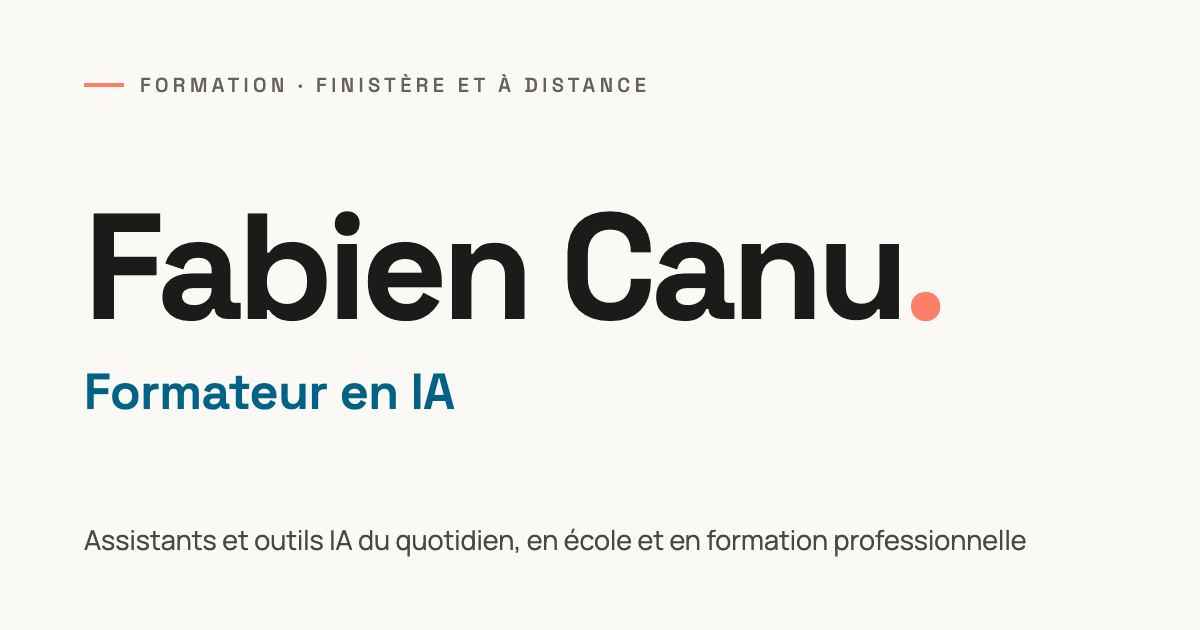
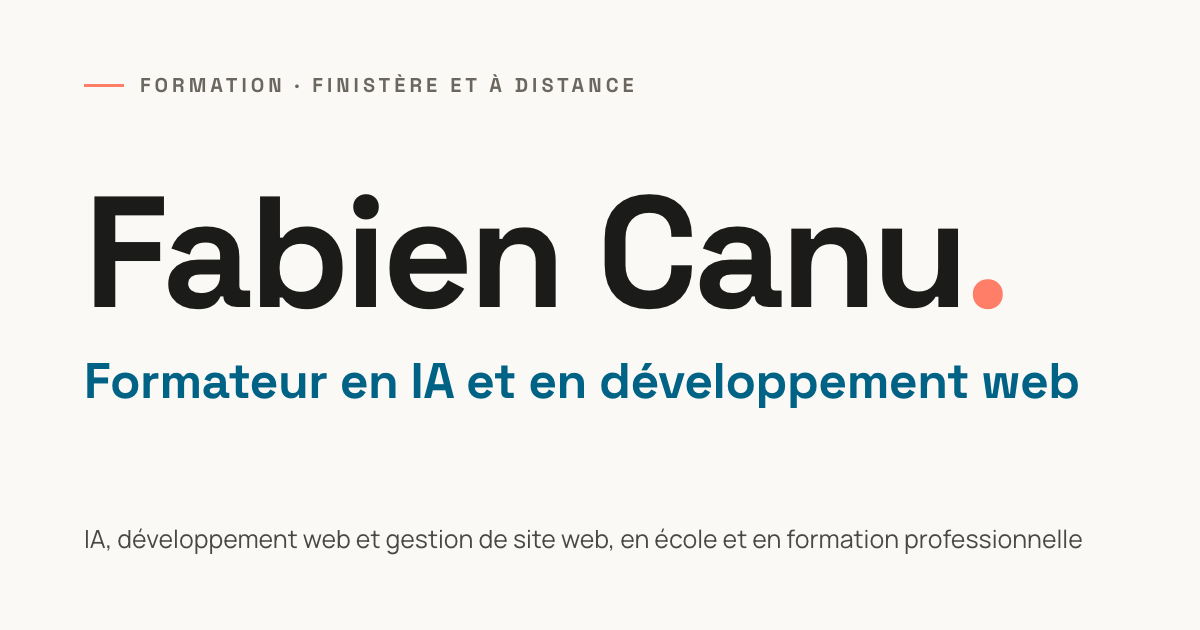
Annonce le développement et la gestion de site web en tête de /formateur
Le haut de la page ne parlait que d'IA, alors que la plupart des
références de Fabien sont des cours de développement. Le titre et la
première phrase citent maintenant l'IA, le développement web et la
gestion de site web. La troisième carte des sujets s'ouvre aux personnes
qui gèrent un site sans coder.

L'image d'aperçu reprend le nouveau titre. Sa source est gardée dans
scripts/og-formateur.html.

diff --git a/scripts/og-formateur.html b/scripts/og-formateur.html
@@ -1,0 +1,25 @@
+<!doctype html>
+<!-- Source de public/images/og-formateur.png (1200 × 630), l'image d'aperçu de /formateur.
+     Rendu : Chrome headless, --window-size=1200,630 --screenshot. -->
+<html lang="fr">
+<head>
+<meta charset="utf-8" />
+<link href="https://fonts.googleapis.com/css2?family=Space+Grotesk:wght@500;700&family=Manrope:wght@400&display=swap" rel="stylesheet" />
+<style>
+  * { margin: 0; box-sizing: border-box; }
+  body { width: 1200px; height: 630px; background: #fbf9f5; color: #1b1c1a; padding: 72px 84px 0; font-family: "Manrope", sans-serif; -webkit-font-smoothing: antialiased; position: relative; overflow: hidden; }
+  .kicker { display: flex; align-items: center; gap: 16px; font-family: "Space Grotesk", sans-serif; font-weight: 700; font-size: 20px; letter-spacing: 0.2em; text-transform: uppercase; color: #6b6760; }
+  .kicker::before { content: ""; width: 40px; height: 3px; background: #ff7e67; }
+  h1 { margin-top: 76px; font-family: "Space Grotesk", sans-serif; font-weight: 700; font-size: 158px; line-height: 1; letter-spacing: -0.03em; }
+  h1 span { color: #ff7e67; }
+  .role { margin-top: 22px; font-family: "Space Grotesk", sans-serif; font-weight: 700; font-size: 50px; line-height: 1.1; letter-spacing: -0.01em; color: #006386; }
+  .line { position: absolute; left: 84px; bottom: 74px; font-size: 25px; white-space: nowrap; color: #4a4845; }
+</style>
+</head>
+<body>
+  <p class="kicker">Formation · Finistère et à distance</p>
+  <h1>Fabien Canu<span>.</span></h1>
+  <p class="role">Formateur en IA et en développement web</p>
+  <p class="line">IA, développement web et gestion de site web, en école et en formation professionnelle</p>
+</body>
+</html>
